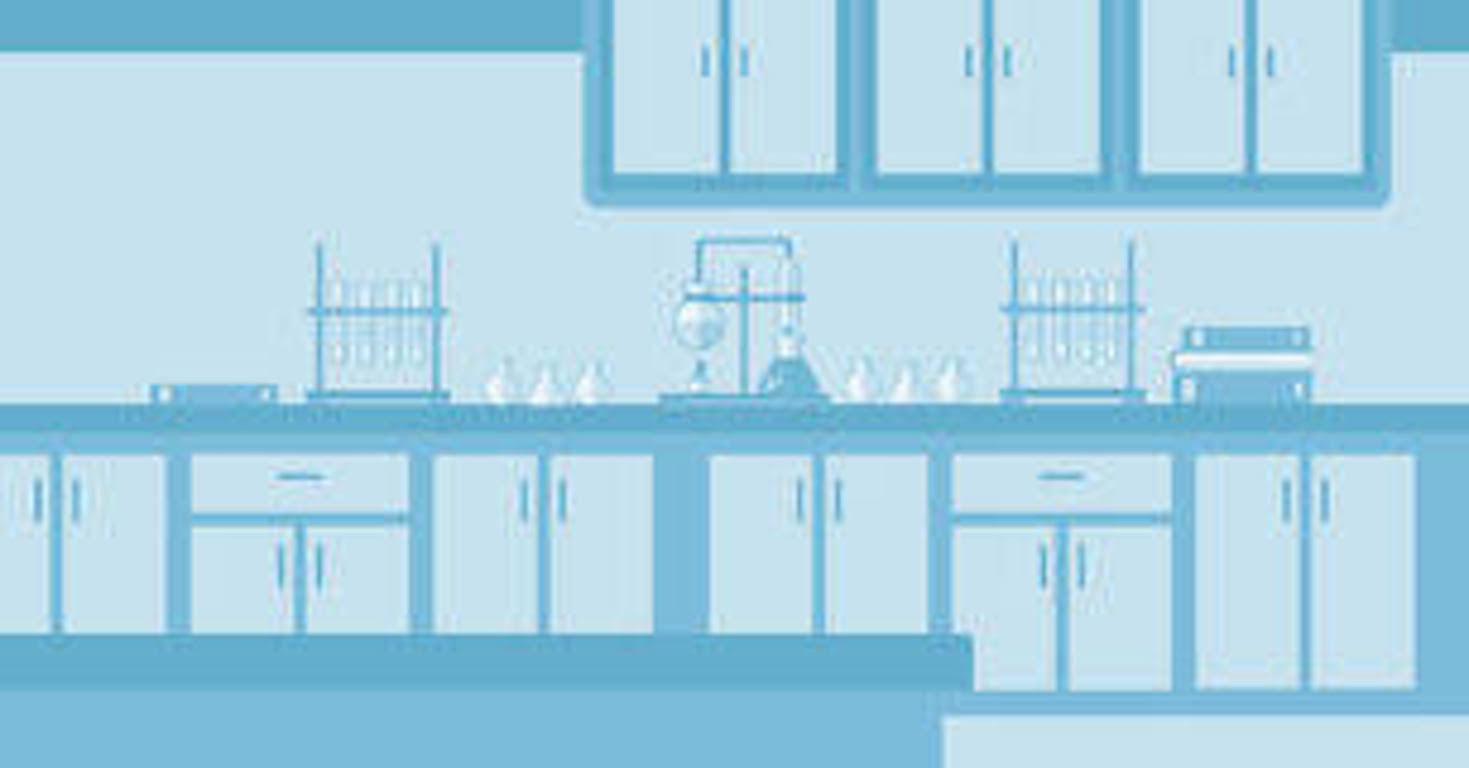
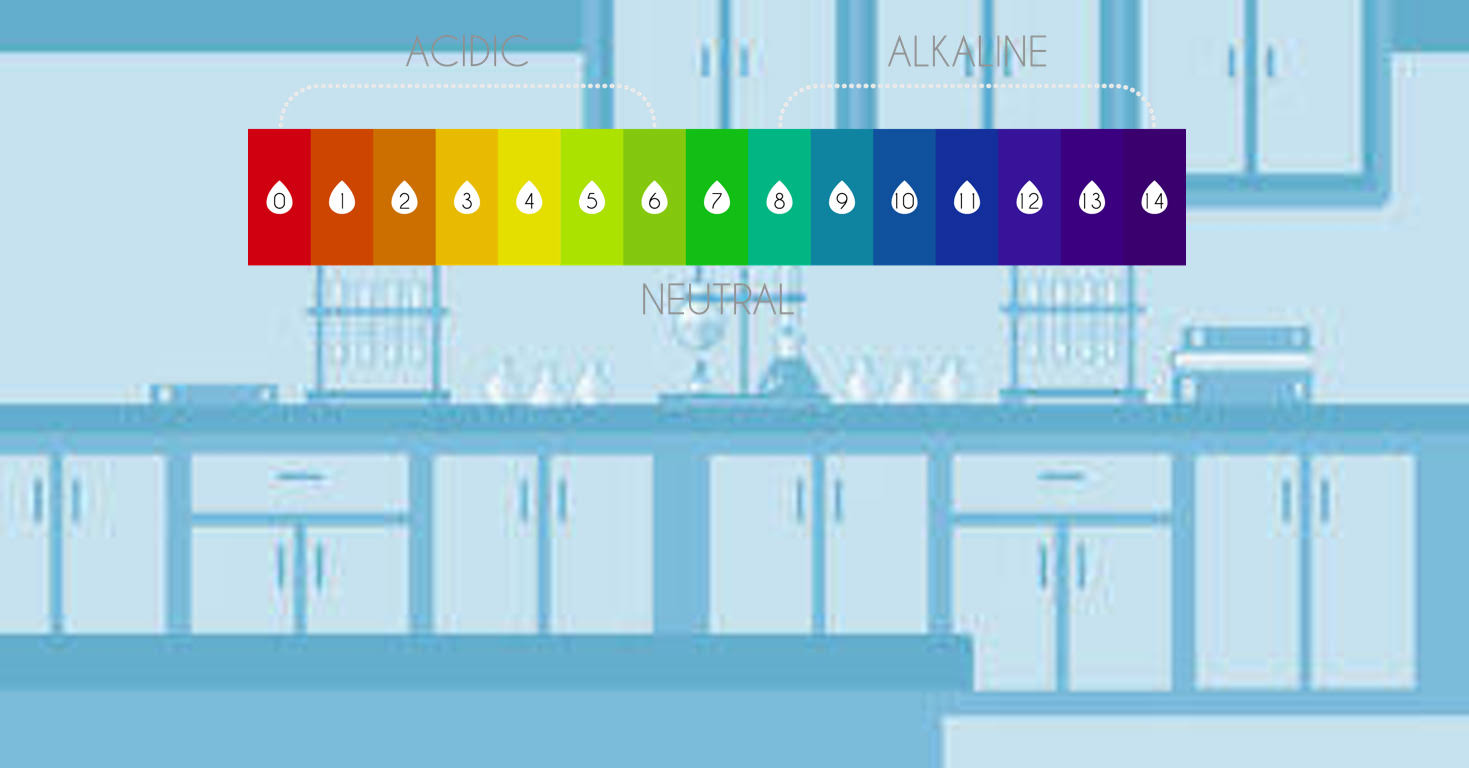
wsmodel: added phstrip

diff --git a/src/pkgMGView/WSView.java b/src/pkgMGView/WSView.java
@@ -26,13 +26,7 @@ public class WSView extends MinigameView{
 	Rectangle phStripBase;
 	Rectangle phStripColor;
 	
-	// pHScale Image dimensions & location
-	int pHScaleX = 300;
-	int pHScaleY = 0;
-	int pHScaleWidth = backgroundWidth - (pHScaleX * 2);
-	int pHScaleHeight = backgroundHeight / 5;
-	
-	//
+	Image pHStrip;
 	public WSView(GraphicsContext gc, Group root, Scene scene) {
 		super(Game.WATERSAMPLING);
 		game = theGame;
@@ -112,11 +106,8 @@ public class WSView extends MinigameView{
 	void draw(ArrayList<Mover> movers) {
 		gc.clearRect(0, 0, backgroundWidth, backgroundHeight);
 		gc.drawImage(background, 0, 0, backgroundWidth, backgroundHeight);
-		gc.drawImage(pHScale, pHScaleX, pHScaleY, pHScaleWidth, pHScaleHeight);
 		for (Mover m : movers) {
-			if(m.getValue().compareTo("PHStrip") != 0) { // draw all objects except PHStrip (no image)
 				draw(m);
-			}
 		}
 	}
 	
@@ -134,7 +125,6 @@ public class WSView extends MinigameView{
 		bottle = new Image("Mover/Bottle.png");
 		background_lab = new Image("backgrounds/lab_background.png");
 		testTube = new Image("Mover/testtube.png");
-		pHScale = new Image("Backgrounds/pH_scale.png");
-		
+		pHStrip=new Image("Mover/pHStrip.png");
 	}
 }

diff --git a/src/pkgMGModel/WSModel.java b/src/pkgMGModel/WSModel.java
@@ -40,7 +40,7 @@ public class WSModel extends MinigameModel{
 	
 	public WSModel() {
 		g = Game.WATERSAMPLING;
-		gs = GameState.WS_PH; /////
+		gs = GameState.WS_COLLECT; /////
 		addObjects(gs);
 	}
 	
@@ -93,9 +93,9 @@ public class WSModel extends MinigameModel{
 			}
 			
 			System.out.println(pHStrip.getX());
-			//movers.get(0).setX(me.getX());
-			//movers.get(0).setY(me.getY());
-			dipStrip(); 
+			pHStrip.setX(me.getX());
+			pHStrip.setY(me.getY());
+			//dipStrip(); 
 
 			
 			
